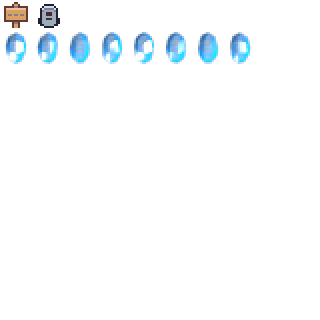
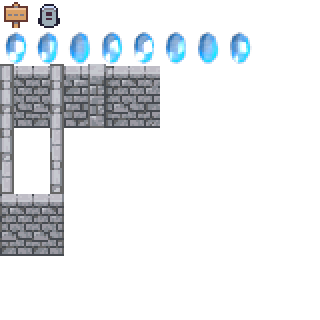
Moved entitys to sprites.  Added gem and some art

Changed region(s): [[0.0, 0.1875, 0.5, 0.8125]]

diff --git a/www/game.js b/www/game.js
@@ -69,6 +69,24 @@ function begin_loadSprites() {
 	tmp.addFrame(96,64,10);
 	
 	
+	//ENTITY SPRITES
+	var tmp = engine.createSprite("entity1","characters",32,32);	//Sprite: Player
+	tmp.addFrame(128,0,10);
+	
+	var tmp = engine.createSprite("entity2","objects",32,32);	//Sprite: Sign
+	tmp.addFrame(0,0,10);
+	
+	var tmp = engine.createSprite("entity3","objects",32,32);	//Sprite: Gravestone
+	tmp.addFrame(32,0,10);
+	
+	var tmp = engine.createSprite("entity4","objects",32,32);	//Sprite: Gem
+	var xTmp = 0;
+	for (var i = 0; i < 8; i++) {	//Load the 8 frames, all to the right of eachother
+		tmp.addFrame((xTmp++)*32,32,4);
+	}
+	
+	
+	
 	begin_serverInit();
 }
 
@@ -478,7 +496,7 @@ function paintGame() {
 		var x = tween(e.oldX,e.x,e.tween);
 		var y = tween(e.oldY,e.y,e.tween);
 		
-		drawEntity(e.type,(x*32)-offsetX,(y*32)-offsetY);	
+		engine.drawSprite("entity" + e.type,(x*32)-offsetX,(y*32)-offsetY);	
 		e.tween+=0.2;
 		if (e.tween > 1) {e.tween = 1;}
 	}
@@ -525,17 +543,6 @@ function paintGame() {
 	}
 }
 
-//TODO change this to use sprites.  This function shouldn't exist
-//Instead, each thing should have a sprite and call e.draw();
-function drawEntity(type,x,y) {
-	if (type == 1) {
-		engine.drawImage("characters", 128,0,32,32,x,y,32,32);
-	} else if (type == 2) {
-		engine.drawImage("objects", 0,0,32,32,x,y,32,32);
-	} else if (type == 3) {
-		engine.drawImage("objects", 32,0,32,32,x,y,32,32);
-	}
-}
 
 function move(xMovement, yMovement){
 	if (game.player.tween < 1) { return; }
@@ -593,6 +600,7 @@ Entity.prototype = {
 	oldY: 0,
 	name: "unnamed",
 	delta: [],
+	sprite: null,
 	set: function(key,value) { this[key] = value; this.delta[key] = value;}
 }
 

diff --git a/src/game/EntityType.java b/src/game/EntityType.java
@@ -2,4 +2,7 @@ package game;
 
 public class EntityType {
 	public static final int PLAYER = 1;
+	public static final int SIGN = 2;
+	public static final int GRAVESTONE = 3;
+	public static final int GEM = 4;
 }
